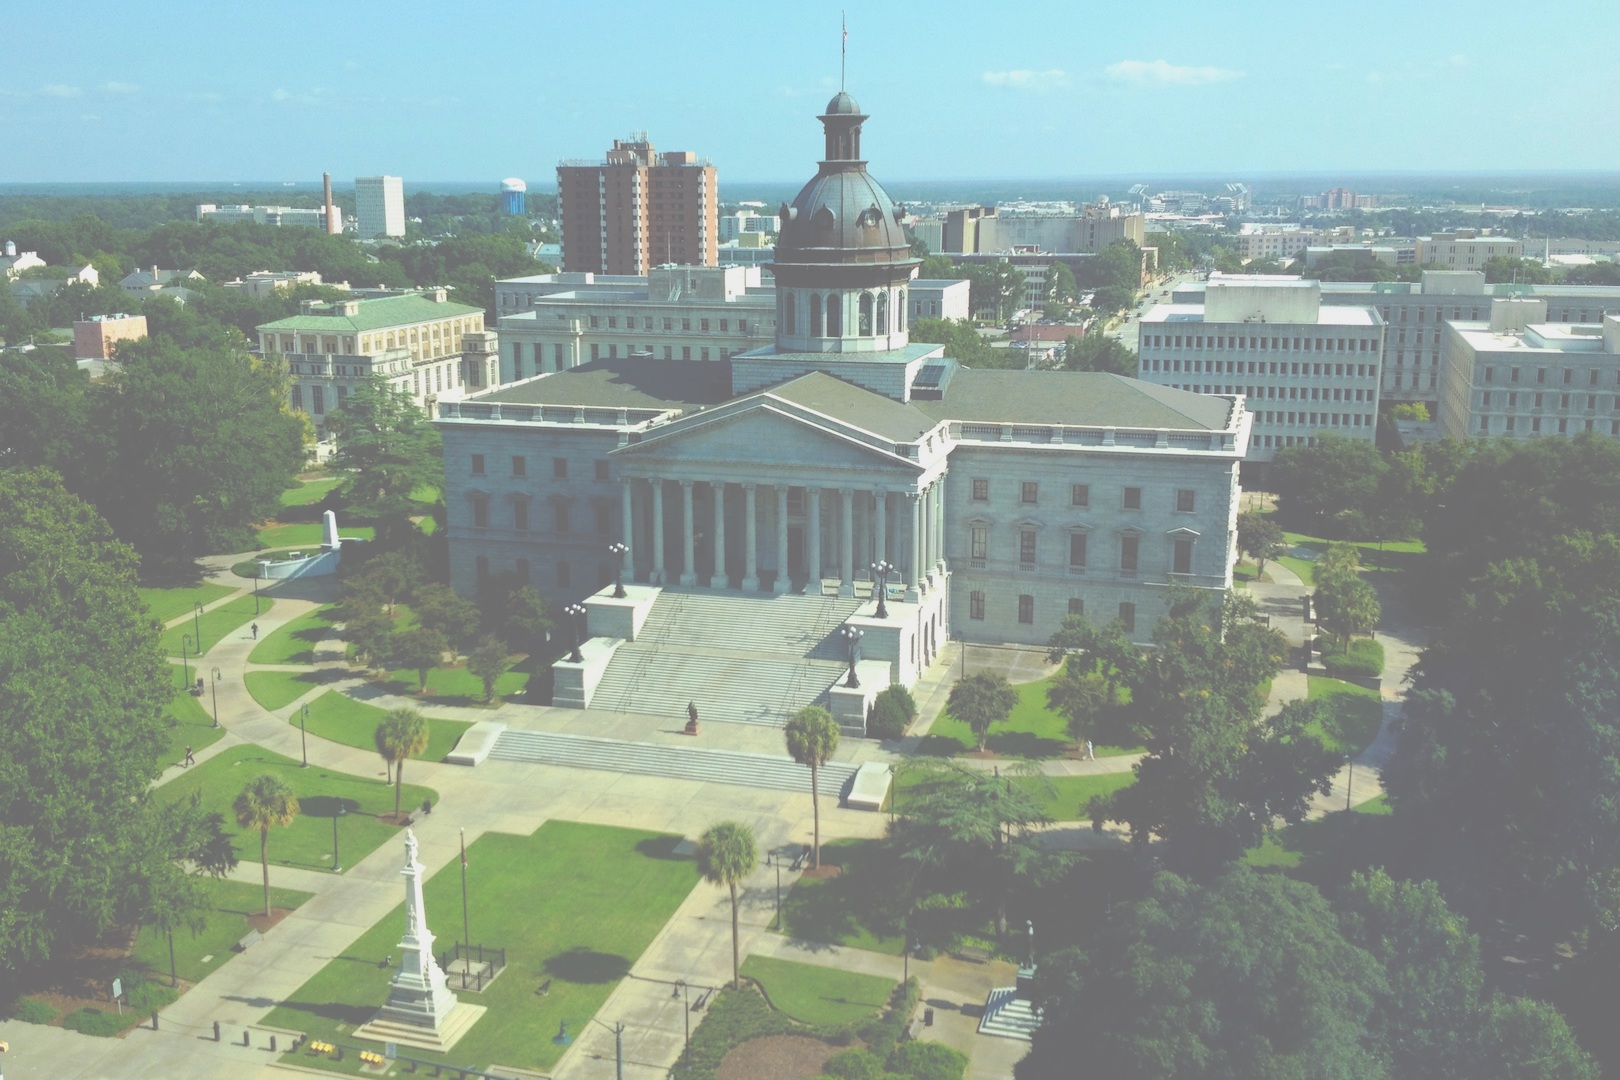
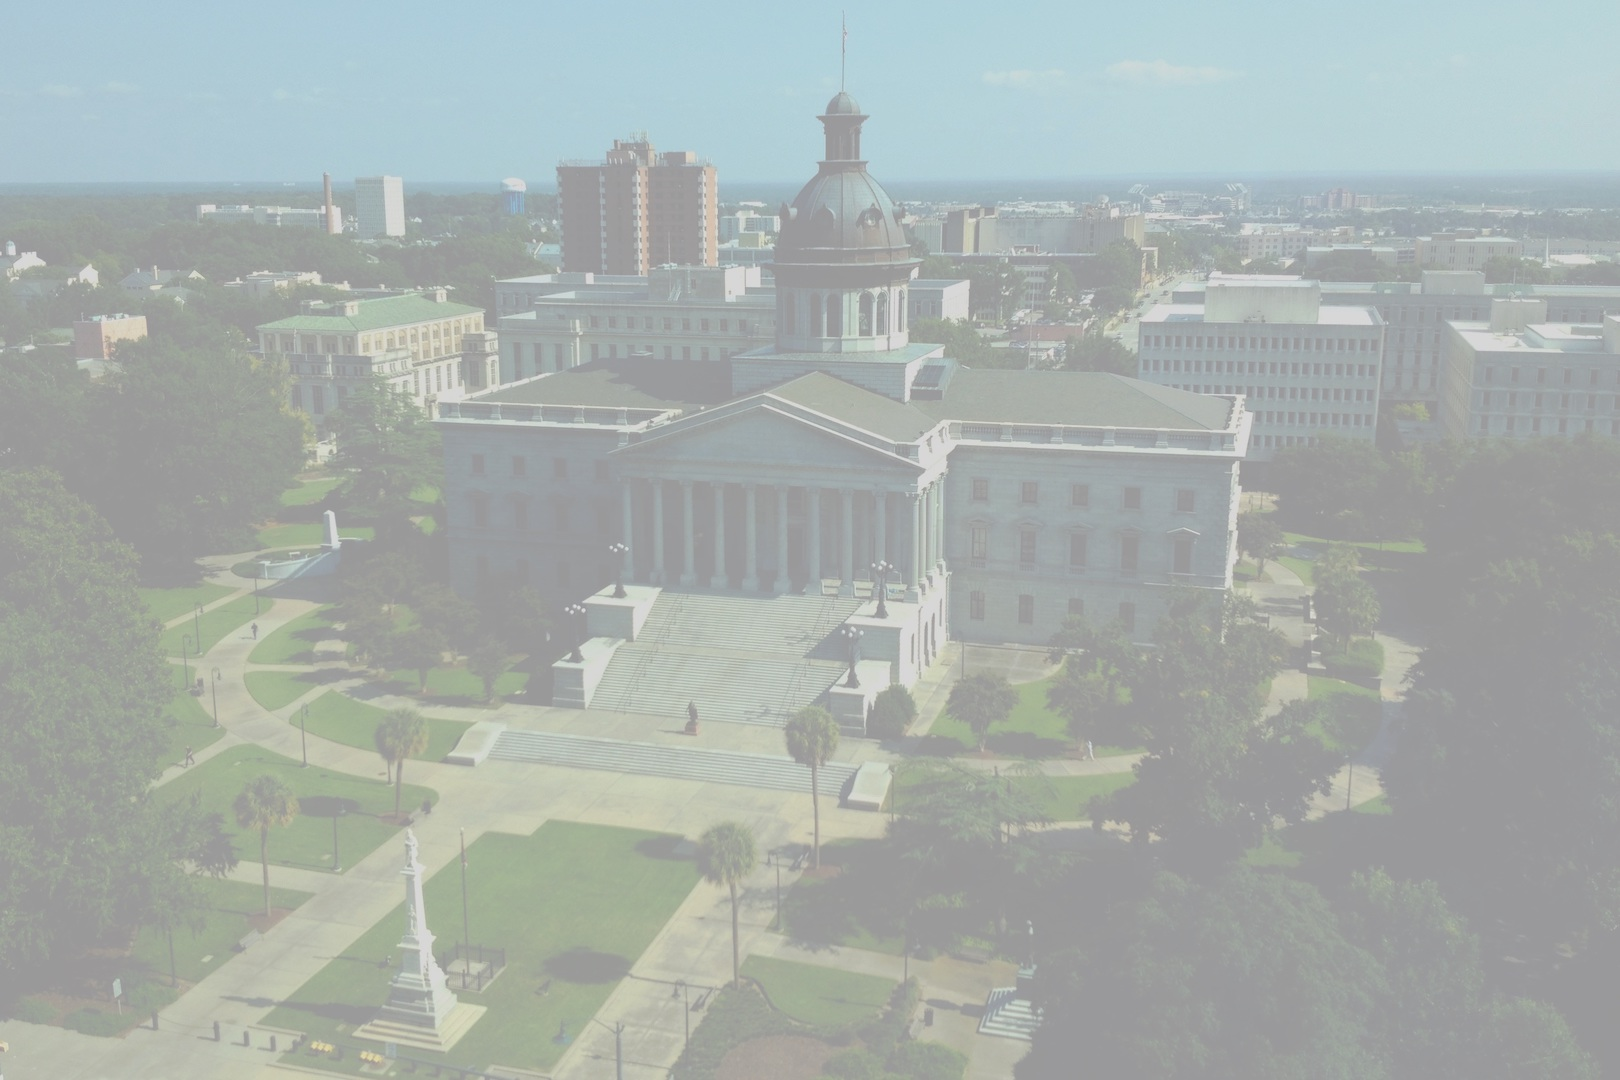
Add files via upload

diff --git a/newApartment.php b/newApartment.php
@@ -1,0 +1,38 @@
+<!DOCTYPE html>
+<?php
+    $db = mysqli_connect('35.231.76.112','roots','Password', 'subLeases');
+?>
+<html>
+    <body>
+
+		<form action="insert.php" method="post">
+			Name: <input type="text" name="name" value="Hub"><br>
+			City: <input type="text" name="city" value="Columbia"><br>
+			Address: <input type="text" name="address" value="Hub@..."><br>
+			Price: <input type="text" name="price" value="420.69"><br>
+			StartDate: <input type="text" name="start" value="2009-01-01"><br>
+			EndDate: <input type="text" name="end" value="2010-01-01"><br>
+			PetsAllowed: <input type="text" name="pets" value="0"><br>
+			Amenities1: <input type="text" name="amenities1" value=" none"><br>
+			Amenities2: <input type="text" name="amenities2" value="none"><br>
+
+			<input type="submit">
+		</form>
+          <?php
+          		#var_dump($_POST['name'])
+          		#$query = "CREATE TABLE ApartmentList (id smallint unsigned not null auto_increment,Name varChar(25),City varchar(20) not null,Address varchar(40) not null,Price double(10,2) not null,StartDate Date not null,EndDate Date not null,PetsAllowed Boolean,Amenities1 varChar(20),Amenities2 varChar(20),constraint pk_example primary key (id));";
+				#mysql_query($query)
+				#$query1 = sprintf("INSERT INTO ApartmentList ( id, Name, City, Address, Price,StartDate, EndDate,PetsAllowed,Amenities1,Amenities2 ) VALUES ( null, '%s', '%s', '%s', '%s', '%s', '%s', '%s', '%s', '%s' );",$_POST['name'],$_POST['city'],$_POST['address'],$_POST['price'],$_POST['start'],$_POST['end'],$_POST['pets'],$_POST['amenities1'],$_POST['amenities2']);
+				#$query1 = "INSERT INTO ApartmentList ( id, Name, City, Address, Price,StartDate, EndDate,PetsAllowed,Amenities1,Amenities2 ) VALUES ( null, 'Hub apt1', 'COlubia', '1409 Main Street', '400.25', '2009-01-01', '2010-09-09', '1', 'Pool', 'Wood Floor' );";
+				#mysqli_query($db,$query1);
+                #$query2 = "select * FROM ApartmentList;";
+                #$result = mysqli_query($db, $query2);
+                #while($row = mysqli_fetch_assoc($result))
+                	#var_dump($row);
+                	#var_dump("\n");
+                
+
+                
+          ?>
+    </body>
+</html>

diff --git a/newa.php b/newa.php
@@ -3,10 +3,11 @@
     $db = mysqli_connect('35.231.76.112','roots','Password', 'subLeases');
 ?>
 <html>
-	<h1>Add a new Apartment</h1>
+<body background="background.jpg" width="1920" height="1080">
+	<h1><center>Add a new Apartment</center></h1>
     <body>
 
-		<form action="insert.php" method="post">
+		<center><form action="insert.php" method="post">
 			Name: <input type="text" name="name" value="Hub"><br>
 			City: <input type="text" name="city" value="Columbia"><br>
 			Address: <input type="text" name="address" value="Hub@..."><br>
@@ -18,23 +19,8 @@
 			Amenities2: <input type="text" name="amenities2" value="none"><br>
 
 			<input type="submit">
-		</form>
-		<a href="index.php">Return Home</a>
-          <?php
-          		#var_dump($_POST['name'])
-          		#$query = "CREATE TABLE ApartmentList (id smallint unsigned not null auto_increment,Name varChar(25),City varchar(20) not null,Address varchar(40) not null,Price double(10,2) not null,StartDate Date not null,EndDate Date not null,PetsAllowed Boolean,Amenities1 varChar(20),Amenities2 varChar(20),constraint pk_example primary key (id));";
-				#mysql_query($query)
-				#$query1 = sprintf("INSERT INTO ApartmentList ( id, Name, City, Address, Price,StartDate, EndDate,PetsAllowed,Amenities1,Amenities2 ) VALUES ( null, '%s', '%s', '%s', '%s', '%s', '%s', '%s', '%s', '%s' );",$_POST['name'],$_POST['city'],$_POST['address'],$_POST['price'],$_POST['start'],$_POST['end'],$_POST['pets'],$_POST['amenities1'],$_POST['amenities2']);
-				#$query1 = "INSERT INTO ApartmentList ( id, Name, City, Address, Price,StartDate, EndDate,PetsAllowed,Amenities1,Amenities2 ) VALUES ( null, 'Hub apt1', 'COlubia', '1409 Main Street', '400.25', '2009-01-01', '2010-09-09', '1', 'Pool', 'Wood Floor' );";
-				#mysqli_query($db,$query1);
-                #$query2 = "select * FROM ApartmentList;";
-                #$result = mysqli_query($db, $query2);
-                #while($row = mysqli_fetch_assoc($result))
-                	#var_dump($row);
-                	#var_dump("\n");
-                
+		</form></center>
+		<center><a href="index.php">Return Home</a></center>
 
-                
-          ?>
     </body>
 </html>

diff --git a/index.php b/index.php
@@ -1,14 +1,42 @@
 <!DOCTYPE html>
 <html>
 <head>
+	<link rel="stylesheet" href="https://stackpath.bootstrapcdn.com/bootstrap/4.1.0/css/bootstrap.min.css" integrity="sha384-9gVQ4dYFwwWSjIDZnLEWnxCjeSWFphJiwGPXr1jddIhOegiu1FwO5qRGvFXOdJZ4" crossorigin="anonymous">
+
 <title>SubLeasing Columbia</title>
 </head>
 <body background="background.jpg" width="1920" height="1080">
-<h1>SubLeasing Columbia</h1>
-<P>A place to find listing for subleases across Columbia!<P>
+<h1><center><font size="29">SubLeasing Columbia</font></center></h1>
+<P><center><font size="5">A place to find listings for subleases across Columbia!</font></center><P>
     <body>
-    	<a href="newa.php">NewApartment</a>
-    	<br />
-    	<a href="listings.php">View current listings</a>
+    	<center><font size="9"><a href="newa.php">New Apartment</a></font></center>    	
+    	<center><font size = "9"><a href="listings.php">View current listings</a></font></center>
+    	
+    	<P><center><b><font size="6">Search by a City!</font></b></center><P>
+    	<center><font size="5"><form action="search.php" method="post">
+			City: <input type="text" name="city" placeholder="Search by City"><br>
+			<input type="submit" value="Search">
+		</form></font></center>
+
+		
+
+
+		<P><center><b><font size="6">Search by a Price</font></b></center><P>
+		<center><font size="5"><form action="searchprice.php" method="post">
+			Low: <input type="text" name="low" placeholder="Lowest Price"><br>
+			
+			High: <input type="text" name="high" placeholder="Highest Price"><br>
+			<input type="submit" value="Search">
+		</form></font></center>
+
+
+
+		<P><center><b><font size="6">Search by a Dates</font></b></center><P>
+		<center><font size="5"><form action="searchyear.php" method="post">
+			Low: <input type="text" name="low" placeholder="year-month-day"><br>
+			
+			High: <input type="text" name="high" placeholder="year-month-day"><br>
+			<input type="submit" value="Search">
+		</form></font></center>
     </body>
 </html>

diff --git a/searchprice.php b/searchprice.php
@@ -1,10 +1,10 @@
 <!DOCTYPE html>
 <html>
-<h1><center>All Listings</center></h1>
-<body background="background.jpg" width="1920" height="1080">
+<h1><center>Search by Price</center></h1>
+<body background="sbg.jpg" width="1920" height="1080">
 	<?php
 	    $db = mysqli_connect('35.231.76.112','roots','Password', 'subLeases');
-	    $query2 = "select * FROM ApartmentList;";
+	    $query2 = sprintf("select * FROM ApartmentList where Price >= %s and Price <= %s;", $_POST['low'],$_POST['high']);
         $result = mysqli_query($db, $query2);
 		if ($result->num_rows > 0) {
 		    // output data of each row
@@ -12,9 +12,12 @@
 		        echo $row["id"]. " - Name: " . $row["Name"]. "  --City: " . $row["City"]. "  --Address: " . $row["Address"]. "  --Price/Month: " . $row["Price"]. "  --StartDate: " . $row["StartDate"]. "  --EndDate: " . $row["EndDate"].  "  --Pets: " . $row["PetsAllowed"]. "  --Amenities1: " . $row["Amenities1"]. "  --Amenities2: " . $row["Amenities2"]. "<br>";
 		    }
 		} else {
-		    echo "0 results";
+		    echo "0 results". "<br>";
 		}
+	    
+
 	?>
+
     	<center><a href="index.php">Return Home</a></center>
     </body>
 </html>

diff --git a/searchyear.php b/searchyear.php
@@ -1,10 +1,10 @@
 <!DOCTYPE html>
 <html>
-<h1><center>All Listings</center></h1>
-<body background="background.jpg" width="1920" height="1080">
+<h1><center>Search by Price</center></h1>
+<body background="sbg.jpg" width="1920" height="1080">
 	<?php
 	    $db = mysqli_connect('35.231.76.112','roots','Password', 'subLeases');
-	    $query2 = "select * FROM ApartmentList;";
+	    $query2 = sprintf("select * FROM ApartmentList where Dates >= %s and Dates <= %s;", $_POST['low'],$_POST['high']);
         $result = mysqli_query($db, $query2);
 		if ($result->num_rows > 0) {
 		    // output data of each row
@@ -12,9 +12,12 @@
 		        echo $row["id"]. " - Name: " . $row["Name"]. "  --City: " . $row["City"]. "  --Address: " . $row["Address"]. "  --Price/Month: " . $row["Price"]. "  --StartDate: " . $row["StartDate"]. "  --EndDate: " . $row["EndDate"].  "  --Pets: " . $row["PetsAllowed"]. "  --Amenities1: " . $row["Amenities1"]. "  --Amenities2: " . $row["Amenities2"]. "<br>";
 		    }
 		} else {
-		    echo "0 results";
+		    echo "0 results". "<br>";
 		}
+	    
+
 	?>
+
     	<center><a href="index.php">Return Home</a></center>
     </body>
 </html>

diff --git a/search.php b/search.php
@@ -1,10 +1,10 @@
 <!DOCTYPE html>
 <html>
-<h1><center>All Listings</center></h1>
-<body background="background.jpg" width="1920" height="1080">
+<h1><center>Search by City</center></h1>
+<body background="sbg.jpg" width="1920" height="1080">
 	<?php
 	    $db = mysqli_connect('35.231.76.112','roots','Password', 'subLeases');
-	    $query2 = "select * FROM ApartmentList;";
+	    $query2 = sprintf("select * FROM ApartmentList where City = '%s';", $_POST['city']);
         $result = mysqli_query($db, $query2);
 		if ($result->num_rows > 0) {
 		    // output data of each row
@@ -12,9 +12,12 @@
 		        echo $row["id"]. " - Name: " . $row["Name"]. "  --City: " . $row["City"]. "  --Address: " . $row["Address"]. "  --Price/Month: " . $row["Price"]. "  --StartDate: " . $row["StartDate"]. "  --EndDate: " . $row["EndDate"].  "  --Pets: " . $row["PetsAllowed"]. "  --Amenities1: " . $row["Amenities1"]. "  --Amenities2: " . $row["Amenities2"]. "<br>";
 		    }
 		} else {
-		    echo "0 results";
+		    echo "0 results". "<br>";
 		}
+	    
+
 	?>
+
     	<center><a href="index.php">Return Home</a></center>
     </body>
 </html>

diff --git a/insert.php b/insert.php
@@ -5,4 +5,4 @@
 	$query1 = sprintf("INSERT INTO ApartmentList ( id, Name, City, Address, Price,StartDate, EndDate,PetsAllowed,Amenities1,Amenities2 ) VALUES ( null, '%s', '%s', '%s', '%s', '%s', '%s', '%s', '%s', '%s' );",$_POST['name'],$_POST['city'],$_POST['address'],$_POST['price'],$_POST['start'],$_POST['end'],$_POST['pets'],$_POST['amenities1'],$_POST['amenities2']);
 	mysqli_query($db,$query1);   
 ?>
-<script type="text/javascript">location.href = 'index.php';</script>
+<script type="text/javascript">location.href = 'success.php';</script>

diff --git a/success.php b/success.php
@@ -1,0 +1,7 @@
+<!DOCTYPE html>
+<html>
+<body background="sbg.jpg" width="1920" height="1080">
+		<h1><center><font size="29">You have successfully added a new SubLeasing</font></center></h1>
+    	<center><a href="index.php">Return Home</a></center>
+    </body>
+</html>
